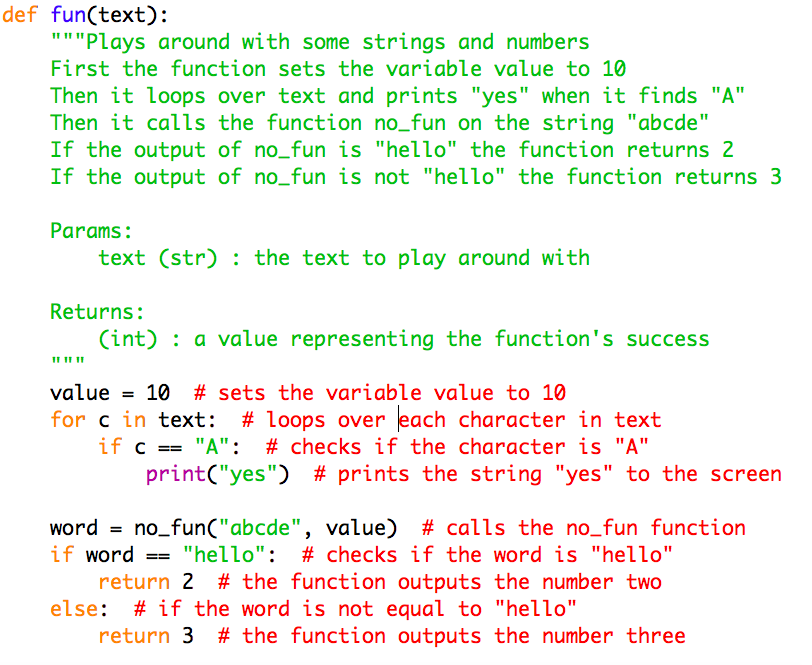
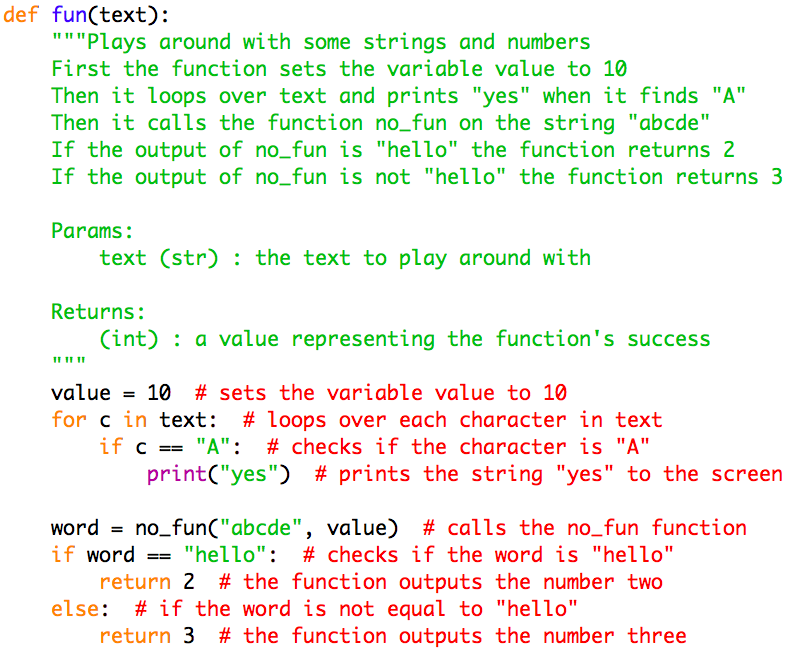
resizing

diff --git a/week5.tex b/week5.tex
@@ -35,7 +35,7 @@
 \end{topic}
 
 \begin{topic}{Bad: Not following the spec}
-\includegraphics[height=0.6\textheight]{bad_python/incorrect}
+\includegraphics[height=0.4\textheight]{bad_python/incorrect}
 
 (note that the implementations are completely absurd...)
 \end{topic}
